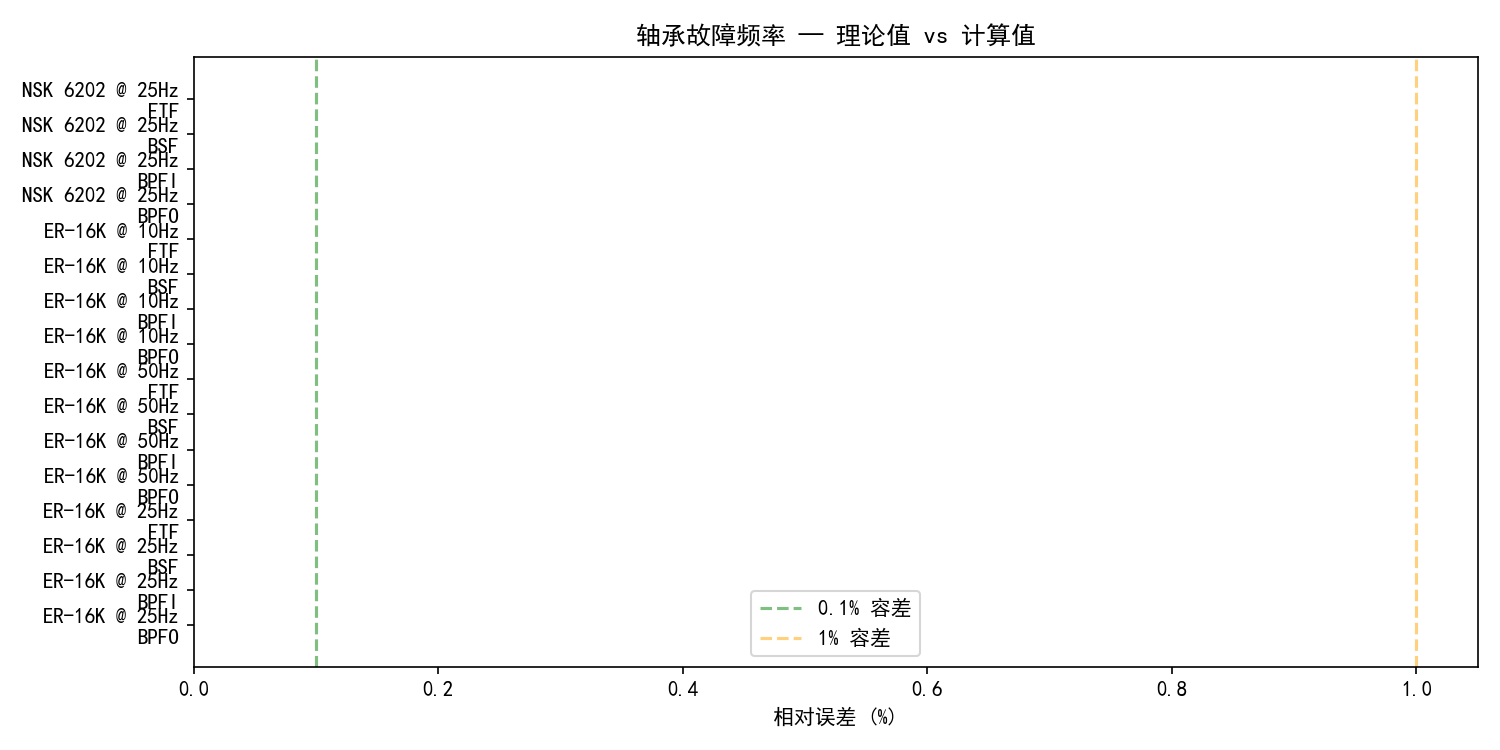
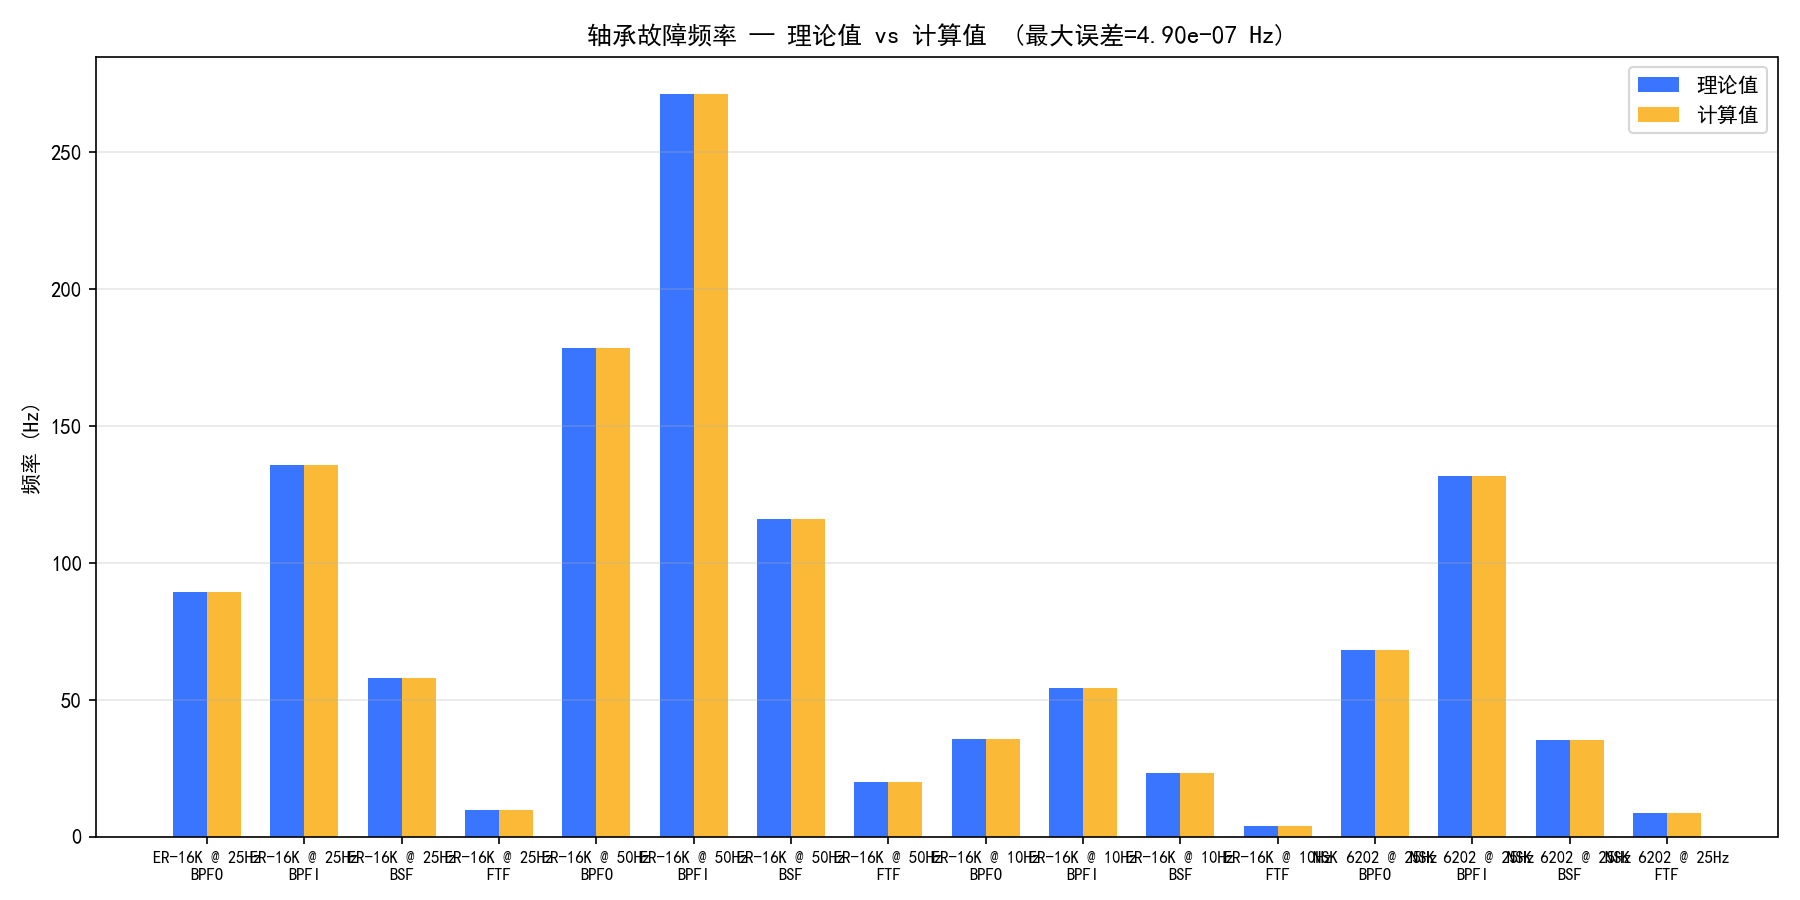
fix: bearing_fault_freqs plot - switch from invisible error bars to side-by-side theoretical vs computed comparison

Changed region(s): [[0.0, 0.0307, 1.0, 0.9813]]

diff --git a/tests/diagnosis/foundation/plot_results.py b/tests/diagnosis/foundation/plot_results.py
@@ -36,28 +36,55 @@ def load_json(name):
 
 
 def plot_bearing_fault_freqs():
-    """轴承故障频率：理论 vs 计算差异"""
+    """轴承故障频率：理论值 vs 计算值 并排对比"""
     data = load_json("bearing_fault_freqs.json")
     if not data:
         return
 
-    fig, ax = plt.subplots(figsize=(10, 5))
-    labels = []
-    errors = []
+    fig, ax = plt.subplots(figsize=(12, 6))
+
+    # 按 (测试用例, freq_type) 排列
+    groups = []
+    group_labels = []
     for tc in data["test_cases"]:
         for key in ["BPFO", "BPFI", "BSF", "FTF"]:
             e = tc["errors"].get(key, {})
-            if e:
-                labels.append(f"{tc['name']}\n{key}")
-                errors.append(e["rel_error"] * 100)
+            if e and e["expected"] > 0:
+                groups.append({
+                    "label": f"{tc['name']}\n{key}",
+                    "expected": e["expected"],
+                    "computed": e["computed"],
+                    "diff_hz": e["abs_error"],
+                })
+                group_labels.append(f"{tc['name']}\n{key}")
 
-    colors = ['green' if e < 0.1 else 'orange' if e < 1.0 else 'red' for e in errors]
-    ax.barh(labels, errors, color=colors)
-    ax.set_xlabel("相对误差 (%)")
-    ax.set_title("轴承故障频率 — 理论值 vs 计算值")
-    ax.axvline(x=0.1, color='green', linestyle='--', alpha=0.5, label='0.1% 容差')
-    ax.axvline(x=1.0, color='orange', linestyle='--', alpha=0.5, label='1% 容差')
+    x = np.arange(len(groups))
+    width = 0.35
+
+    expected_vals = [g["expected"] for g in groups]
+    computed_vals = [g["computed"] for g in groups]
+    diffs = [g["diff_hz"] for g in groups]
+
+    bars1 = ax.bar(x - width/2, expected_vals, width, label='理论值', color='#165DFF', alpha=0.85)
+    bars2 = ax.bar(x + width/2, computed_vals, width, label='计算值', color='#FAAD14', alpha=0.85)
+
+    # 标注差异
+    for i, d in enumerate(diffs):
+        if d > 0.001:
+            ax.annotate(f'Δ={d:.2e}Hz', (x[i], max(expected_vals[i], computed_vals[i])),
+                        ha='center', fontsize=7, color='red')
+
+    ax.set_xticks(x)
+    ax.set_xticklabels(group_labels, fontsize=8)
+    ax.set_ylabel("频率 (Hz)")
+    ax.set_title(f"轴承故障频率 — 理论值 vs 计算值  (最大误差={max(diffs):.2e} Hz)")
     ax.legend()
+    ax.grid(axis='y', alpha=0.3)
+
+    plt.tight_layout()
+    fig.savefig(PLOT_DIR / "bearing_fault_freqs.png", dpi=150)
+    plt.close(fig)
+    print("  [OK] bearing_fault_freqs.png")
     plt.tight_layout()
     fig.savefig(PLOT_DIR / "bearing_fault_freqs.png", dpi=150)
     plt.close(fig)